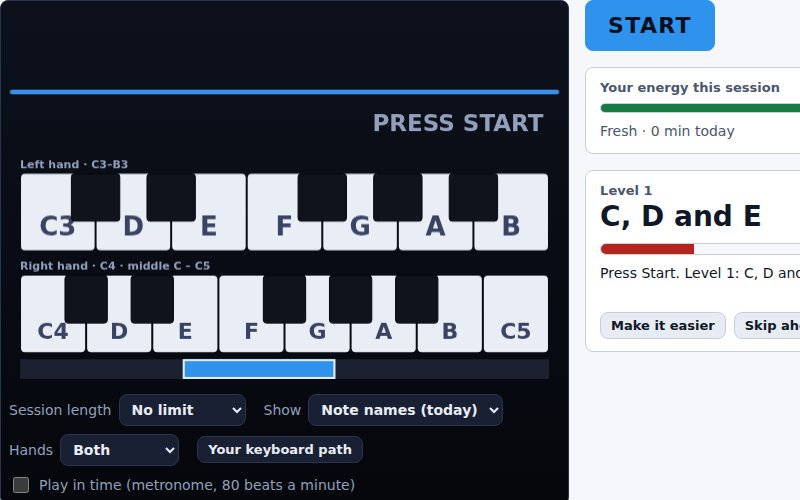
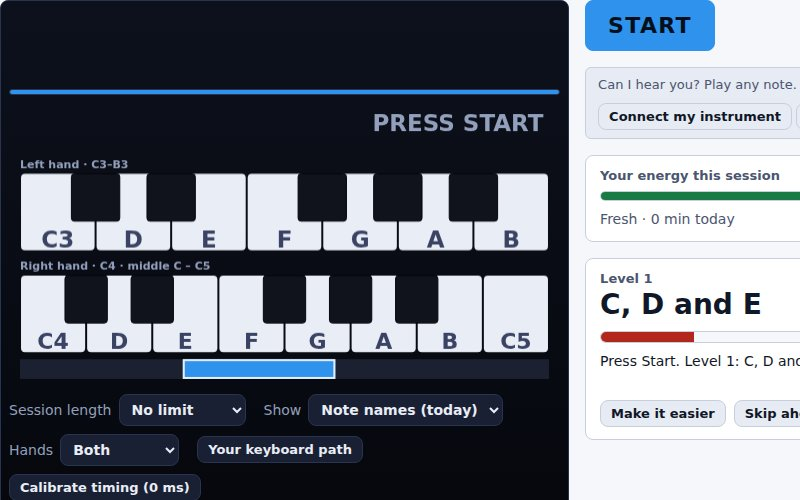
fix(band-coach): v1.11.0 screenshots and page copy

diff --git a/content/band-coach.md b/content/band-coach.md
@@ -14,7 +14,7 @@ Pick an instrument and press Start. Band Coach gives you notes or short phrases 
 
 <img src="/img/band-coach/trainer-keyboard.png" alt="Keyboard trainer at Level 1 (C, D and E): on-screen keyboard, Start button and energy meter" width="1440" height="900" loading="lazy">
 
-Songs are practiced the same way. Open a tune and it is split into graded steps on the instrument you are playing. Progress shows minutes, a practice calendar, a daily goal and a per-instrument breakdown.
+Songs are practiced the same way. Open a tune and it is split into graded steps on the instrument you are playing, in Learn, Rehearse or Check mode. A My speed slider slows the song down, and Hear your try plays back what you just played. Progress shows minutes, a practice calendar, a daily goal and a per-instrument breakdown. It counts how many of the last 7 and 28 days you practiced rather than keeping a streak.
 
 ## Get it running
 
@@ -22,11 +22,11 @@ Songs are practiced the same way. Open a tune and it is split into graded steps 
 2. Open the file in Chrome or Edge. The app's own MIDI message names those two browsers; without Web MIDI it still accepts screen keys and computer keys.
 3. Allow the microphone, or connect a MIDI keyboard. Keyboard uses MIDI, on-screen keys or computer keys; Drum kit uses an electronic kit over MIDI, computer keys, clicks on the drawn kit or the microphone; every other instrument listens through the microphone.
 
-Progress is saved in the browser's local storage, so a different browser or profile starts empty. Use "Save a backup" under Settings → Backups and reset to download `band-coach-progress.json`, and "Restore a backup" to load it again. The release I checked (v1.10.0) makes two network requests, both only when you press their button in Settings, and neither sends anything about your playing: "Check for updates" asks the Band Coach website for the latest version number, and "Download model pack" fetches an optional extra download from the same site.
+Progress is saved in the browser's local storage, so a different browser or profile starts empty. Use "Save a backup" under Settings → Backups and reset to download `band-coach-progress.json`, and "Restore a backup" to load it again; it shows the backup's date before it replaces anything. "Erase all my data" in the same group removes everything Band Coach keeps in the browser. The release I checked (v1.11.0) makes two network requests, both only when you press their button in Settings, and neither sends anything about your playing: "Check for updates" asks the Band Coach website for the latest version number, and "Download model pack" fetches an optional extra download from the same site.
 
 ## Instruments
 
-Band Coach v1.10.0 has 27 instruments, each with its own graded levels:
+Band Coach v1.11.0 has 27 instruments, each with its own graded levels:
 
 - **Keys and voice:** Keyboard, Voice.
 - **Fretted:** Guitar, Bass, 5-string bass, Ukulele, Baritone ukulele, Low-G ukulele, Mandolin, 5-string banjo.
@@ -34,9 +34,9 @@ Band Coach v1.10.0 has 27 instruments, each with its own graded levels:
 - **Wind and brass:** Trumpet (B flat), Trombone, French horn (F), Clarinet (B flat), Alto sax (E flat), Tenor sax (B flat), Flute, Oboe, Descant recorder, Tin whistle (D).
 - **Other:** Harmonica, Mallet percussion (bells), Drum kit.
 
-Drum kit has its own trainer. It takes an electronic kit over MIDI, computer keys, a click on the drawn kit, or the microphone. The microphone can only tell kick, snare and hi-hat apart; a MIDI kit names every piece.
+Drum kit has its own trainer. It takes an electronic kit over MIDI, computer keys, a click on the drawn kit, or the microphone. The microphone can only tell kick, snare and hi-hat apart; a MIDI kit names every piece. Eight practice grooves, from a rock beat to sixteenths on the hi-hat, sit alongside the levels.
 
-<img src="/img/band-coach/instrument-picker.png" alt="Band Coach's instrument picker: one button per instrument family, then a Tools row of drills, tuner, ear training and theory" width="1440" height="900" loading="lazy">
+<img src="/img/band-coach/instrument-picker.png" alt="Band Coach's instrument picker: a button per instrument family, then a Tools row of drills, tuner, theory and a metronome" width="1440" height="900" loading="lazy">
 
 ## What it can't hear {#what-it-cant-hear}
 
@@ -54,11 +54,11 @@ Band Coach hears pitch and timing. It cannot see posture, breath, bowing or hand
 
 **Main nav:** Practice (the trainer), Songs, Progress, Choose an instrument and Settings.
 
-- **Songs:** practice a built-in tune, or use Add a song to record a tune or open a score or recording. An open song also has Edit notes and Play along.
+- **Songs:** practice a built-in starter tune, whose Play it on list shows how it fits each instrument, or use Add a song to record a tune or open a score or recording. An open song also has Edit notes and Play along.
 - **Progress:** practice calendar, daily goal and results by instrument, once you have logged a session.
-- **Settings:** backups, diagnostics, updates and the optional model pack.
+- **Settings:** reset an instrument, backups, erase all data, diagnostics, updates and the optional model pack.
 
-**Tools** (a row in the instrument picker): Interval drill, Rhythm reading, Tuner, Capture a melody, Ear training, How to play it and Music theory.
+**Tools** (a row in the instrument picker): Interval drill, Rhythm reading, Tuner, Capture a melody, Ear training, How to play it, Music theory and Metronome.
 
 <img src="/img/band-coach/panel-history.png" alt="Progress before any practice: no sessions logged yet, a Start your first session button and results by instrument" width="1440" height="900" loading="lazy">
 
